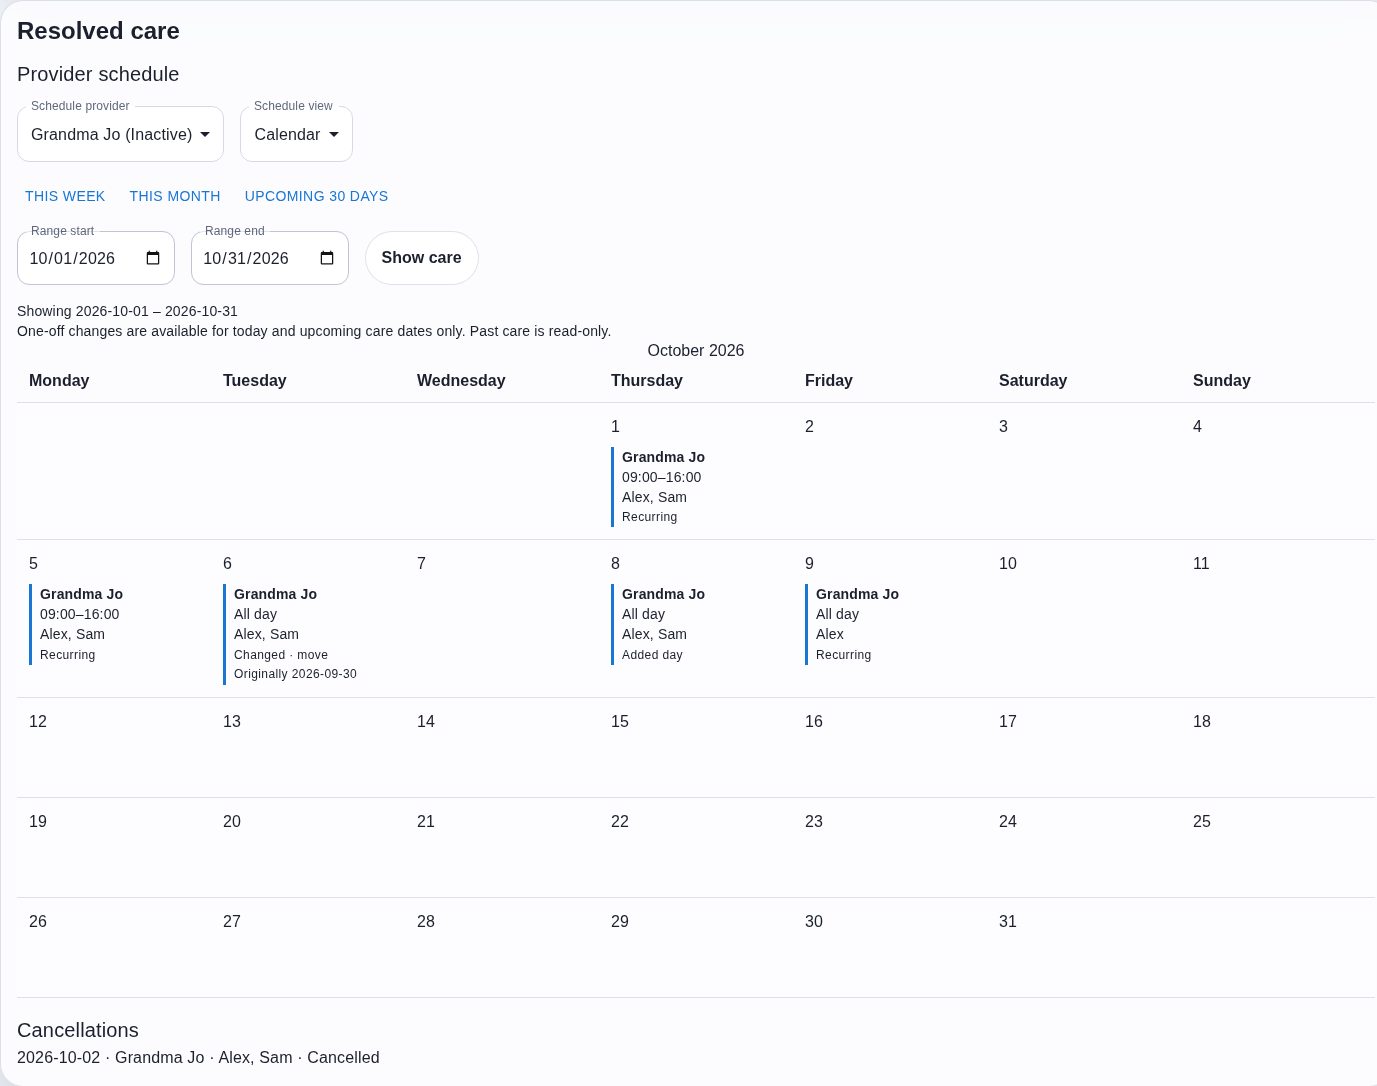
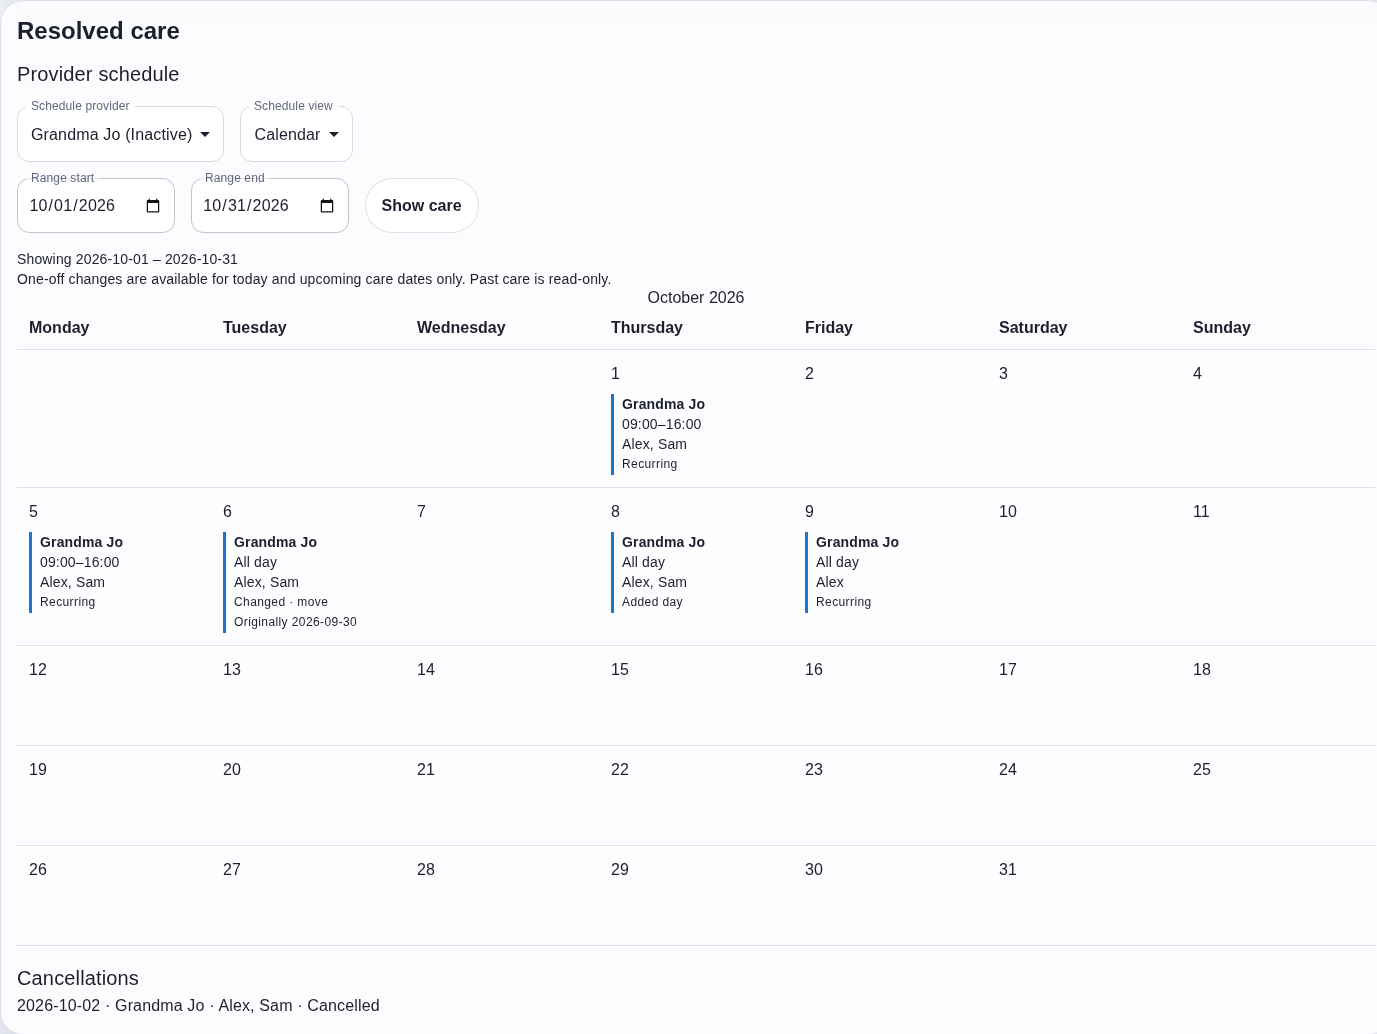
Remove provider schedule date preset links

diff --git a/frontend/src/features/settings/components/ChildcareSettings.tsx b/frontend/src/features/settings/components/ChildcareSettings.tsx
@@ -41,19 +41,6 @@ const validDate = (date: string) => /^\d{4}-\d{2}-\d{2}$/.test(date) && !date.st
   && Number.isFinite(Date.parse(`${date}T00:00:00Z`)) && new Date(`${date}T00:00:00Z`).toISOString().slice(0, 10) === date;
 const validRange = (start: string, end: string) => validDate(start) && validDate(end) && end >= start
   && (Date.parse(end) - Date.parse(start)) / 86400000 < 366;
-const presetRange = (preset: "week" | "month" | "upcoming") => {
-  const start = new Date();
-  const end = new Date(start);
-  if (preset === "week") {
-    start.setDate(start.getDate() - ((start.getDay() + 6) % 7));
-    end.setTime(start.getTime());
-    end.setDate(end.getDate() + 6);
-  } else if (preset === "month") {
-    start.setDate(1);
-    end.setMonth(end.getMonth() + 1, 0);
-  } else end.setDate(end.getDate() + 29);
-  return { startDate: localDate(start), endDate: localDate(end) };
-};
 const validTiming = (item: Timing) => item.allDay || (
   /^([01]\d|2[0-3]):[0-5]\d$/.test(item.startTime ?? "") &&
   /^([01]\d|2[0-3]):[0-5]\d$/.test(item.endTime ?? "") && item.startTime! < item.endTime!
@@ -303,13 +290,6 @@ export function ChildcareSettings({ householdId, members, request }: {
           <MenuItem value="list">List</MenuItem>
           <MenuItem value="calendar">Calendar</MenuItem>
         </FormField>
-      </Stack>
-      <Stack direction="row" spacing={1} useFlexGap sx={{ flexWrap: "wrap" }}>
-        {([["week", "This week"], ["month", "This month"], ["upcoming", "Upcoming 30 days"]] as const).map(([preset, label]) =>
-          <Button key={preset} disabled={disabled} onClick={() => {
-            const dates = presetRange(preset);
-            setRange(dates); setPreview(null); setError(""); void load(dates);
-          }}>{label}</Button>)}
       </Stack>
       <Stack component="form" direction={{ xs: "column", sm: "row" }} spacing={2} sx={{ my: 2 }} onSubmit={(event) => {
         event.preventDefault();

diff --git a/frontend/src/features/settings/components/ChildcareSettings.stories.tsx b/frontend/src/features/settings/components/ChildcareSettings.stories.tsx
@@ -202,16 +202,12 @@ export const ProviderSchedule: Story = {
     await expect(canvas.getByText("No care occurrences in this range.")).toBeInTheDocument();
     await chooseScheduleOption(canvasElement, "Schedule view", "List");
     await expect(canvas.queryByRole("table", { name: "Childcare occurrences" })).not.toBeInTheDocument();
-    for (const [label, days] of [["This week", 7], ["Upcoming 30 days", 30]] as const) {
-      await userEvent.click(canvas.getByRole("button", { name: label }));
-      await waitFor(() => expect(canvas.getByRole("button", { name: "Show care" })).toBeEnabled());
-      const start = (canvas.getByLabelText("Range start") as HTMLInputElement).value;
-      const end = (canvas.getByLabelText("Range end") as HTMLInputElement).value;
-      await expect((Date.parse(end) - Date.parse(start)) / 86400000 + 1).toBe(days);
+    for (const label of ["This week", "This month", "Upcoming 30 days"]) {
+      await expect(canvas.queryByRole("button", { name: label })).not.toBeInTheDocument();
+      await expect(canvas.queryByRole("link", { name: label })).not.toBeInTheDocument();
     }
-    await userEvent.click(canvas.getByRole("button", { name: "This month" }));
-    await waitFor(() => expect(canvas.getByRole("button", { name: "Show care" })).toBeEnabled());
-    await expect((canvas.getByLabelText("Range start") as HTMLInputElement).value).toBe(`${date().slice(0, 7)}-01`);
+    await expect(canvas.getByLabelText("Range start")).toHaveValue("2026-10-01");
+    await expect(canvas.getByLabelText("Range end")).toHaveValue("2026-10-31");
     await fireEvent.change(canvas.getByLabelText("Range end"), { target: { value: "2020-01-01" } });
     await expect(canvas.getByRole("button", { name: "Show care" })).toBeDisabled();
     await showOctoberSchedule(canvasElement);

diff --git a/docs/DATA_MODEL.md b/docs/DATA_MODEL.md
@@ -117,7 +117,7 @@ The occurrences endpoint reads persisted arrangements and overrides, never gener
 
 Overlapping arrangements and moves onto another scheduled day remain separate occurrences; no capacity/conflict inference is performed. Arrangement edits retain saved overrides. Changing weekdays or effective dates to exclude an override's original date is rejected both by the API (including previews) and the database, rather than silently discarding the change.
 
-Settings → Childcare exposes provider management, weekly arrangement editing with multiple children, draft previews, upcoming single-occurrence changes, and the ability to add a date to a selected arrangement. Historical resolved care is read-only in Settings. Provider schedules offer chronological lists and monthly calendars for inclusive ranges up to 366 days, with week/month/upcoming-30-day presets and selection of active or inactive providers. Filtering uses the effective `providerId` from persisted resolved occurrences, not the base arrangement provider; moved and replacement care therefore appears under the effective provider/date, including moves from outside the range. Both views preserve shared children, timing, and one-off labels. The household calendar displays resolved all-day and timed childcare for its visible range, including provider, children, and one-off changes. The read-only `get_childcare_coverage` agent tool returns explainable resolved coverage for a requested range. The current model has no descriptive arrangement name or notes. Cancelled occurrences are listed separately because they are excluded from resolved care. Deleting arrangements and clearing overrides are not exposed. Ordinary household saves do not replace childcare data.
+Settings → Childcare exposes provider management, weekly arrangement editing with multiple children, draft previews, upcoming single-occurrence changes, and the ability to add a date to a selected arrangement. Historical resolved care is read-only in Settings. Provider schedules offer chronological lists and monthly calendars for custom inclusive ranges up to 366 days and selection of active or inactive providers. Filtering uses the effective `providerId` from persisted resolved occurrences, not the base arrangement provider; moved and replacement care therefore appears under the effective provider/date, including moves from outside the range. Both views preserve shared children, timing, and one-off labels. The household calendar displays resolved all-day and timed childcare for its visible range, including provider, children, and one-off changes. The read-only `get_childcare_coverage` agent tool returns explainable resolved coverage for a requested range. The current model has no descriptive arrangement name or notes. Cancelled occurrences are listed separately because they are excluded from resolved care. Deleting arrangements and clearing overrides are not exposed. Ordinary household saves do not replace childcare data.
 
 Arrangement saving requires a successful preview. Changing the draft or preview dates invalidates that preview; review the refreshed results before saving. Previews are advisory rather than reservations or conflict checks.
 

diff --git a/docs/PRODUCT_OVERVIEW.md b/docs/PRODUCT_OVERVIEW.md
@@ -26,7 +26,7 @@ Childcare Planning helps households organise recurring care arrangements provide
 
 Settings → Childcare supports creating, editing, deactivating, and reactivating providers; creating and editing weekly arrangements with participating children; reviewing resolved draft occurrences before saving; adding a care date to a selected arrangement; and cancelling, replacing, or moving a single upcoming occurrence. Recurring care and one-off changes are labelled separately. The calendar shows all-day and timed resolved care in its visible two-week range. The `get_childcare_coverage` agent tool reads persisted resolved coverage; it does not make care changes.
 
-Settings → Childcare also provides a provider-centred resolved list and monthly calendar. Use a provider's **View schedule** action or the **Schedule provider** selector (including inactive providers), choose an inclusive date range, or use **This week**, **This month**, and **Upcoming 30 days**. Both views show effective providers/dates, all participating children, all-day or timed care, and recurring versus one-off adjustments. Cancelled care is excluded from appointments and listed separately. These views reload persisted care through the existing resolver API; no new agent actions are added.
+Settings → Childcare also provides a provider-centred resolved list and monthly calendar. Use a provider's **View schedule** action or the **Schedule provider** selector (including inactive providers), choose an inclusive date range, and select **Show care**. Both views show effective providers/dates, all participating children, all-day or timed care, and recurring versus one-off adjustments. Cancelled care is excluded from appointments and listed separately. These views reload persisted care through the existing resolver API; no new agent actions are added.
 
 Parenting time, payments, booking, capacity, and attendance are outside this implementation. See [Childcare model and API](DATA_MODEL.md#childcare--implemented) and [Supabase setup](SUPABASE.md#childcare-migration).
 

diff --git a/CHANGELOG.md b/CHANGELOG.md
@@ -2,7 +2,7 @@
 
 ## Unreleased
 
-- Added provider-centred resolved childcare lists and calendars in Settings, including inactive providers, date-range presets, shared children, and effective one-off changes. Updated UI screenshot: `/home/runner/work/family-butler-v2/family-butler-v2/docs/screenshots/provider-childcare-schedule.png`.
+- Added provider-centred resolved childcare lists and calendars in Settings, including inactive providers, custom date ranges, shared children, and effective one-off changes. Removed date-preset links in favour of the range controls. Updated UI screenshot: `/home/runner/work/family-butler-v2/family-butler-v2/docs/screenshots/provider-childcare-schedule.png`.
 
 - Added an arrangement-specific one-off action to add childcare on an unscheduled date without changing the weekly arrangement. Updated Settings screenshot: `/home/runner/work/family-butler-v2/family-butler-v2/docs/screenshots/settings-childcare.png`.
 - Displayed persisted resolved childcare in the household calendar with provider/child labels and one-off move/replacement details, and added the read-only `get_childcare_coverage` agent tool. Updated UI screenshot: `/home/runner/work/family-butler-v2/family-butler-v2/docs/screenshots/household-calendar-childcare.png`.
